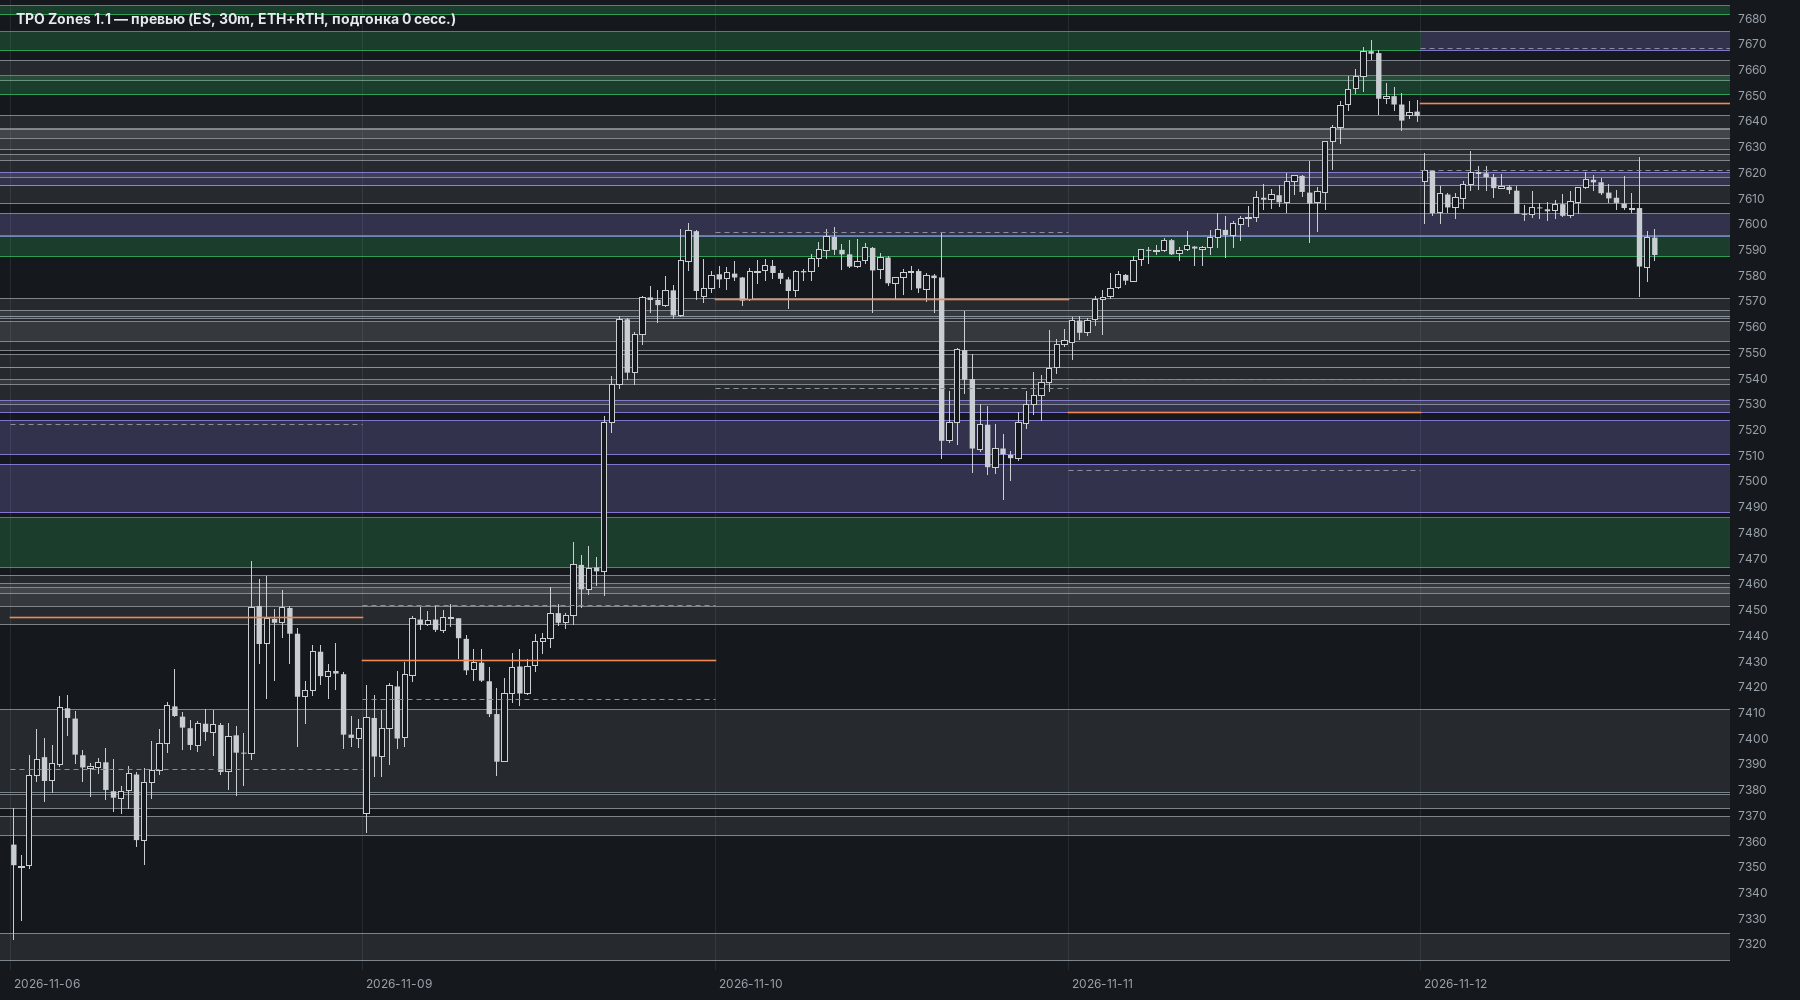
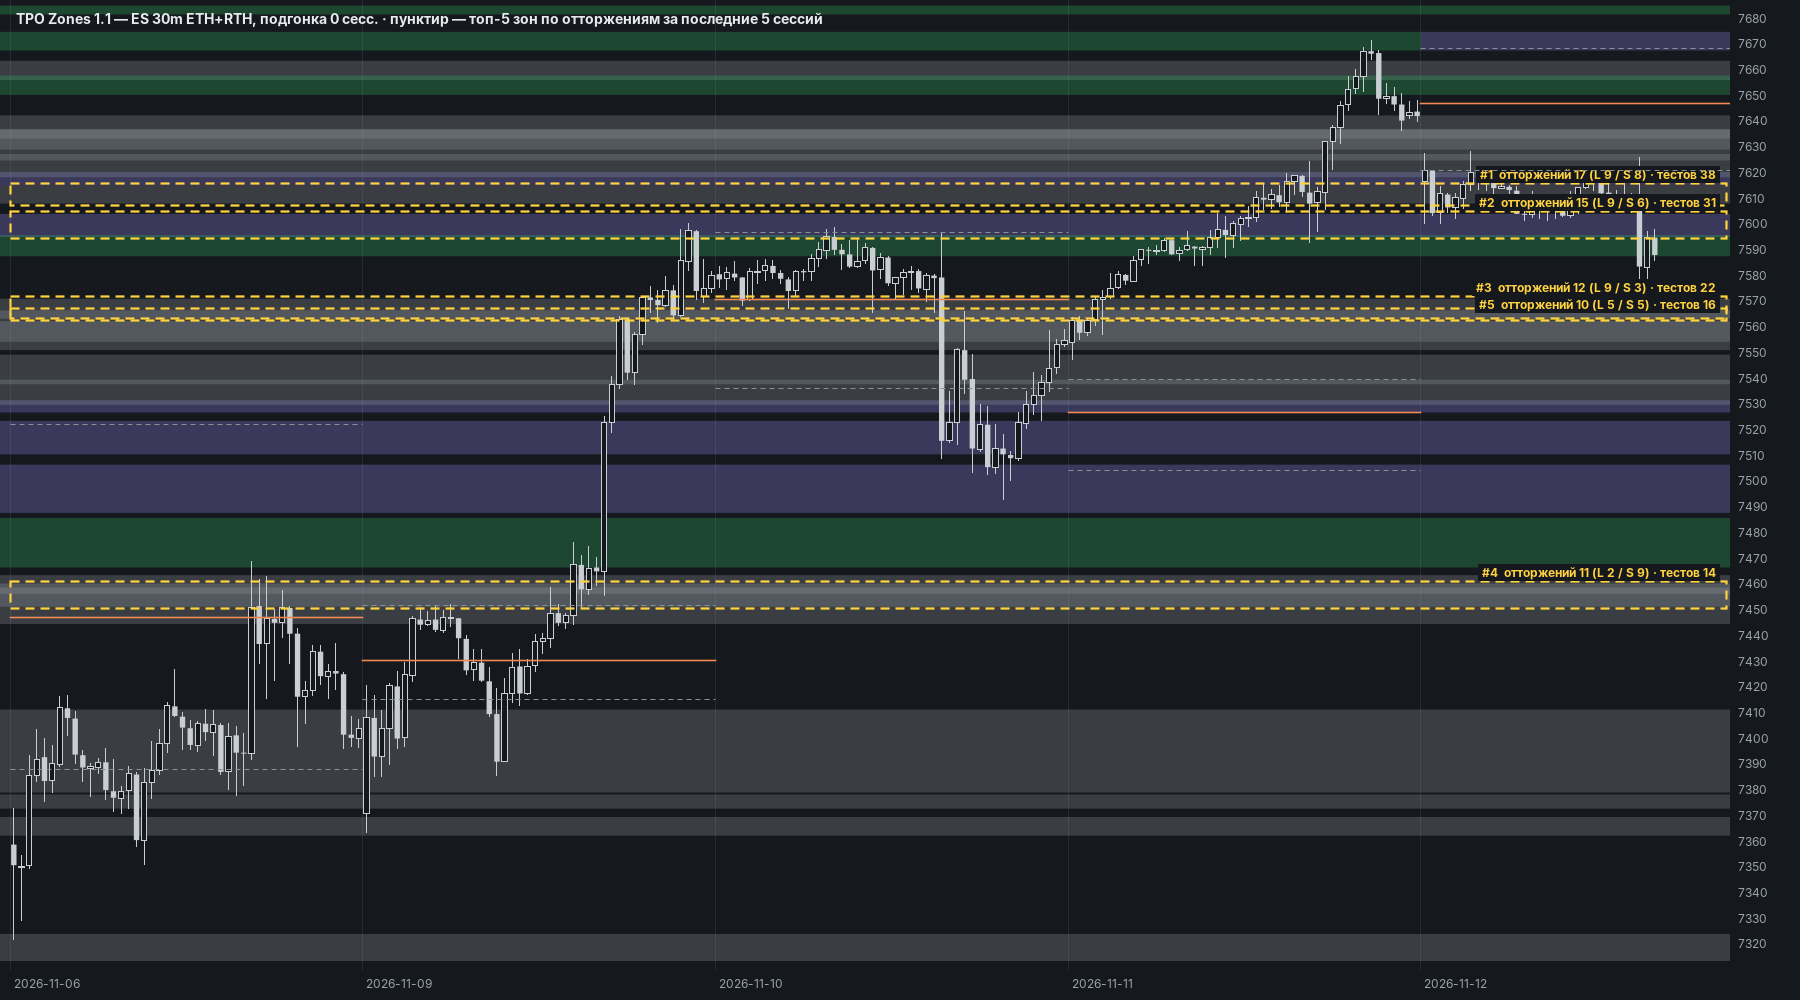
Study: highlight most rejected zones, 30% fills, no edges by default
New 'Подсветка проторгованных зон' group: dashed frame and label for the
top K zones by tail rejections over the last N sessions (ETH + RTH bars),
K and N configurable (5 and 5 by default). All zone fills default to 30%,
edge lines off. Preview follows the same defaults.

Claude-Session: https://claude.ai/code/session_01PTkoju45i5ZphCgSn4vnkL

diff --git a/motivewave/src/patterns/zones/TpoZonesStudy.java b/motivewave/src/patterns/zones/TpoZonesStudy.java
@@ -64,7 +64,8 @@ public class TpoZonesStudy extends Study {
             SESSIONS = "sessions", NEAR = "near", ALIGN = "align", PROMOTE = "promote", MIN_REJ = "minRej",
             PUR_MIN = "purMin", PUR_MAX = "purMax", MIN_CONF = "minConf", CONF_NEAR = "confNear",
             MIN_AGE = "minAge", MAX_W = "maxW", EDGES = "edges", PREV = "prev", PREV_VA = "prevVaColor",
-            PREV_POC = "prevPocColor", OP_MAIN = "opMain", OP_OLD = "opOld", OP_GREY = "opGrey", OP_EDGE = "opEdge";
+            PREV_POC = "prevPocColor", OP_MAIN = "opMain", OP_OLD = "opOld", OP_GREY = "opGrey", OP_EDGE = "opEdge",
+            HL = "hl", HL_SESS = "hlSessions", HL_COUNT = "hlCount", HL_COLOR = "hlColor", HL_LABELS = "hlLabels";
     static final Map<Kind, String> SHOW = new EnumMap<>(Kind.class), COLOR = new EnumMap<>(Kind.class);
     static final Map<Kind, Color> DEF_COLOR = new EnumMap<>(Kind.class);
     static {
@@ -103,14 +104,21 @@ public class TpoZonesStudy extends Study {
         g.addRow(new IntegerDescriptor(MIN_AGE, "Возраст зоны не меньше, дн.", 0, 0, 3000, 1));
         g.addRow(new DoubleDescriptor(MAX_W, "Ширина зоны до, п. (60 — любая)", 60, 1, 60, 0.5));
 
+        g = tab.addGroup("Подсветка проторгованных зон");
+        g.addRow(new BooleanDescriptor(HL, "Обводить пунктиром зоны с наибольшим числом отторжений", true));
+        g.addRow(new IntegerDescriptor(HL_SESS, "За последние сессий (ETH + RTH)", 5, 1, 100, 1));
+        g.addRow(new IntegerDescriptor(HL_COUNT, "Сколько зон выделять", 5, 1, 50, 1));
+        g.addRow(new BooleanDescriptor(HL_LABELS, "Подписи: отторжения и тесты", true));
+        g.addRow(new ColorDescriptor(HL_COLOR, "Цвет пунктира", new Color(0xffd23f)));
+
         tab = sd.addTab("Вид");
         g = tab.addGroup("Цвета зон");
         for (Kind k : Kind.values()) g.addRow(new ColorDescriptor(COLOR.get(k), k.title, DEF_COLOR.get(k)));
         g = tab.addGroup("Заливка, %");
-        g.addRow(new IntegerDescriptor(OP_MAIN, "HVN-зоны", 24, 0, 100, 1));
-        g.addRow(new IntegerDescriptor(OP_OLD, "Старые балансы", 10, 0, 100, 1));
-        g.addRow(new IntegerDescriptor(OP_GREY, "Серые", 14, 0, 100, 1));
-        g.addRow(new BooleanDescriptor(EDGES, "Линии границ", true));
+        g.addRow(new IntegerDescriptor(OP_MAIN, "HVN-зоны", 30, 0, 100, 1));
+        g.addRow(new IntegerDescriptor(OP_OLD, "Старые балансы", 30, 0, 100, 1));
+        g.addRow(new IntegerDescriptor(OP_GREY, "Серые", 30, 0, 100, 1));
+        g.addRow(new BooleanDescriptor(EDGES, "Линии границ", false));
         g.addRow(new IntegerDescriptor(OP_EDGE, "Непрозрачность границ, %", 85, 0, 100, 5));
         g = tab.addGroup("Вчерашний RTH-профиль");
         g.addRow(new BooleanDescriptor(PREV, "Показывать VAH / VAL / POC вчера", true));
@@ -143,7 +151,7 @@ public class TpoZonesStudy extends Study {
         g.addRow(new IntegerDescriptor(WICK, "Хвост от, тиков", 2, 1, 20, 1));
 
         RuntimeDescriptor rd = createRD();
-        rd.setLabelSettings(NEAR, ALIGN);
+        rd.setLabelSettings(NEAR, HL_SESS, HL_COUNT);
     }
 
     @Override
@@ -171,7 +179,7 @@ public class TpoZonesStudy extends Study {
             Result res = ZoneEngine.run(bars, p);
             if (res.sessions.isEmpty()) return;
             computedFor = res.sessions.get(res.sessions.size() - 1).date;
-            draw(res, p);
+            draw(res, p, bars);
             info("TPO Zones: RTH-дней " + res.rthDays + " (полных " + res.fullDays + "), зон " + res.zones.size()
                     + ", сессий на графике " + res.sessions.size() + (res.note.isEmpty() ? "" : " — " + res.note));
         } catch (Exception e) {
@@ -247,16 +255,16 @@ public class TpoZonesStudy extends Study {
     }
 
     // ------------------------------------------------------------------ отрисовка
-    private void draw(Result res, Params p) {
+    private void draw(Result res, Params p, List<ZoneEngine.Bar> bars) {
         Settings st = getSettings();
         ZonePlan plan = ZonePlan.of(res, p);
-        boolean edges = st.getBoolean(EDGES, true);
+        boolean edges = st.getBoolean(EDGES, false);
         int edgeA = st.getInteger(OP_EDGE, 85);
         Map<Kind, Color> fill = new EnumMap<>(Kind.class), line = new EnumMap<>(Kind.class);
         for (Kind k : Kind.values()) {
             Color c = st.getColor(COLOR.get(k));
             if (c == null) c = DEF_COLOR.get(k);
-            int op = k == Kind.OLD_BALANCE ? st.getInteger(OP_OLD, 10) : k == Kind.GREY ? st.getInteger(OP_GREY, 14) : st.getInteger(OP_MAIN, 24);
+            int op = k == Kind.OLD_BALANCE ? st.getInteger(OP_OLD, 30) : k == Kind.GREY ? st.getInteger(OP_GREY, 30) : st.getInteger(OP_MAIN, 30);
             fill.put(k, alpha(c, op));
             line.put(k, alpha(c, edgeA));
         }
@@ -290,7 +298,42 @@ public class TpoZonesStudy extends Study {
                 figs.add(ln);
             }
         }
+        if (st.getBoolean(HL, true)) highlight(res, p, bars, figs);
         addFigures(figs);
+    }
+
+    /** Топ зон по отторжениям хвостом за последние N сессий (все бары ETH + RTH) — пунктирная рамка. */
+    private void highlight(Result res, Params p, List<ZoneEngine.Bar> bars, List<Figure> figs) {
+        Settings st = getSettings();
+        int nSess = st.getInteger(HL_SESS, 5), count = st.getInteger(HL_COUNT, 5);
+        boolean labels = st.getBoolean(HL_LABELS, true);
+        Color c = st.getColor(HL_COLOR);
+        if (c == null) c = new Color(0xffd23f);
+        List<ZoneEngine.Recent> top = ZoneEngine.recent(bars, res, p, nSess);
+        int n = res.sessions.size();
+        long t0 = res.sessions.get(Math.max(0, n - nSess)).startMs;
+        long t1 = res.sessions.get(n - 1).date.atTime(LocalTime.of(16, 0)).atZone(p.tz).toInstant().toEpochMilli();
+        t1 = Math.max(t1, res.sessions.get(n - 1).endMs);
+        Stroke dash = new BasicStroke(2f, BasicStroke.CAP_BUTT, BasicStroke.JOIN_MITER, 10f, new float[]{8f, 5f}, 0f);
+        java.awt.Font font = new java.awt.Font("SansSerif", java.awt.Font.BOLD, 11);
+        for (int i = 0; i < Math.min(count, top.size()); i++) {
+            ZoneEngine.Recent r = top.get(i);
+            if (r.rejections() == 0) break;
+            String txt = String.format(java.util.Locale.ROOT, "#%d  отторжений %d (L %d / S %d) · тестов %d",
+                    i + 1, r.rejections(), r.longs, r.shorts, r.tests);
+            String tip = txt + " за " + nSess + " сесс.\n" + r.z.blo + " – " + r.z.bhi + ", появилась " + r.z.av;
+            Box b = new Box(t0, r.z.bhi, t1, r.z.blo);
+            b.setFillColor(new Color(0, 0, 0, 0));
+            b.setLineColor(c);
+            b.setStroke(dash);
+            b.setPopupMessage(tip);
+            figs.add(b);
+            if (labels) {
+                Line ln = new Line(t0, r.z.bhi, t1, r.z.bhi);
+                ln.setColor(c); ln.setStroke(dash); ln.setText(txt, font); ln.setPopupMessage(tip);
+                figs.add(ln);
+            }
+        }
     }
 
     private static Color alpha(Color c, int pct) {

diff --git a/motivewave/parity/Preview.java b/motivewave/parity/Preview.java
@@ -107,13 +107,9 @@ public class Preview {
             if (x1 < 0) continue;
             double y0 = ty.applyAsDouble(r.z.bhi), y1 = ty.applyAsDouble(r.z.blo);
             Color c = base.get(r.kind);
-            int op = r.kind == Kind.OLD_BALANCE ? 10 : r.kind == Kind.GREY ? 14 : 24;
+            int op = 30;                                   // заливка по умолчанию в индикаторе, границ нет
             g.setColor(new Color(c.getRed(), c.getGreen(), c.getBlue(), Math.round(op * 2.55f)));
             g.fill(new java.awt.geom.Rectangle2D.Double(x0, y0, x1 - x0, Math.max(2, y1 - y0)));
-            g.setColor(new Color(c.getRed(), c.getGreen(), c.getBlue(), 217));
-            g.setStroke(new BasicStroke(1f));
-            g.draw(new java.awt.geom.Line2D.Double(x0, y0, x1, y0));
-            g.draw(new java.awt.geom.Line2D.Double(x0, y1, x1, y1));
         }
         Color up = new Color(0xc9ced3), dn = new Color(0xc9ced3), upFill = new Color(0x15181c);
         for (int i = f0; i < n; i++) {

diff --git a/motivewave/README.md b/motivewave/README.md
@@ -26,6 +26,15 @@
 | серый | HVN без истории; серые зоны (композит 2 дня, слабый HVN 5–7 TPO, молодая первородная) |
 | синий | старый баланс — VA композита ≥ 3 дней (по умолчанию выключен, как на странице) |
 | пунктир / оранжевая | VAH, VAL / POC вчерашнего RTH-профиля на каждую сессию |
+| жёлтый пунктир | самые проторгованные зоны: больше всего отторжений за последние сессии |
+
+По умолчанию заливка всех зон 30%, линий границ нет (вкладка «Вид»).
+
+**Подсветка проторгованных зон** (вкладка «Карта зон»): среди зон, видимых в последние
+N сессий (по умолчанию 5), считаются тесты и отторжения на всех 30m-барах этих сессий
+(ETH + RTH). Тест — бар задел зону, отторжение — хвост пересёк границу, close за зоной.
+Топ-K зон (по умолчанию 5) по отторжениям (при равенстве — по тестам) обводится пунктиром
+на эти N сессий, с подписью «#1 отторжений 17 (L 9 / S 8) · тестов 38». N, K, цвет и подписи настраиваются.
 
 Подсказка при наведении на зону: тип, границы, дата появления, возраст, отторжения
 (лонг / шорт, чистота), подтверждения, источник серой зоны, подгонка.
